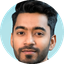
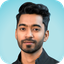
Paper, Stone, Coral and Black palette; status-pill process steps; separate hello photo
- Replace the rose accent with coral and the user's palette in both themes
- Process steps get muted status colours and small icons
- Hello pill uses the side-profile photo so it differs from the nav headshot
- Tab icon is a softly rounded square that shows more of the photo

Claude-Session: https://claude.ai/code/session_01RdWp2im6H8GFzkqyPQpJKF

diff --git a/raihanghorami/app/globals.css b/raihanghorami/app/globals.css
@@ -1,27 +1,31 @@
 /* ============ Tokens (light) ============ */
+/* Palette: Paper #F6F4F1, Stone #E4DED2, Coral #F95C4B, Black #000000 */
 :root {
-  --bg: #f4f3ef;
-  --surface: #ffffff;
-  --glass: rgba(255, 255, 255, 0.82);
-  --ink: #131313;
-  --ink-hover: #2a292f;
-  --ink-2: rgba(19, 19, 19, 0.68);
-  --ink-3: rgba(19, 19, 19, 0.6);
-  --line: rgba(19, 19, 19, 0.1);
-  --line-2: rgba(19, 19, 19, 0.16);
-  --hover: rgba(19, 19, 19, 0.05);
-  --grid: rgba(19, 19, 19, 0.055);
-  --underline: rgba(19, 19, 19, 0.3);
-  --elev: 0 0 0 1px rgba(19, 19, 19, 0.07), 0 12px 32px -12px rgba(19, 19, 19, 0.22);
+  --bg: #f6f4f1;
+  --surface: #fbfaf8;
+  --glass: rgba(251, 250, 248, 0.84);
+  --ink: #000000;
+  --ink-hover: #2b2a28;
+  --ink-2: rgba(0, 0, 0, 0.66);
+  --ink-3: rgba(0, 0, 0, 0.56);
+  --line: rgba(0, 0, 0, 0.1);
+  --line-2: rgba(0, 0, 0, 0.16);
+  --hover: rgba(0, 0, 0, 0.05);
+  --grid: rgba(0, 0, 0, 0.05);
+  --underline: rgba(0, 0, 0, 0.3);
+  --elev: 0 0 0 1px rgba(0, 0, 0, 0.07), 0 12px 32px -14px rgba(0, 0, 0, 0.2);
 
-  /* design-tool overlay colours */
-  --accent: #a83f6e;
-  --on-accent: #ffffff;
-  --sel: #ecd3dd;
+  /* design-tool overlay colours: coral is the only accent */
+  --accent: #f95c4b;
+  --on-accent: #000000;
+  --sel: #e4ded2;
   --handle: var(--accent);
   --handle-ring: var(--bg);
-  --focus: #6e56f0;
-  --band: #0c0b10;
+  --hl: var(--accent);
+  --on-hl: #000000;
+  --focus: var(--ink);
+  --band: #000000;
+  --band-ink: #f6f4f1;
 
   --serif: 'Instrument Serif', 'Iowan Old Style', 'Times New Roman', serif;
   --sans: 'Geist Variable', ui-sans-serif, system-ui, -apple-system, 'Segoe UI', sans-serif;
@@ -37,26 +41,22 @@
 
 /* ============ Tokens (dark) ============ */
 :root[data-theme='dark'] {
-  --bg: #141416;
-  --surface: #1c1c20;
-  --glass: rgba(30, 30, 34, 0.74);
-  --ink: #f2f1ec;
+  --bg: #000000;
+  --surface: #121110;
+  --glass: rgba(18, 17, 16, 0.78);
+  --ink: #f6f4f1;
   --ink-hover: #ffffff;
-  --ink-2: rgba(242, 241, 236, 0.7);
-  --ink-3: rgba(242, 241, 236, 0.52);
-  --line: rgba(255, 255, 255, 0.1);
-  --line-2: rgba(255, 255, 255, 0.16);
-  --hover: rgba(255, 255, 255, 0.07);
-  --grid: rgba(255, 255, 255, 0.045);
-  --underline: rgba(242, 241, 236, 0.35);
-  --elev: 0 0 0 1px rgba(255, 255, 255, 0.09), 0 14px 36px -14px rgba(0, 0, 0, 0.7);
+  --ink-2: rgba(246, 244, 241, 0.7);
+  --ink-3: rgba(246, 244, 241, 0.54);
+  --line: rgba(246, 244, 241, 0.12);
+  --line-2: rgba(246, 244, 241, 0.18);
+  --hover: rgba(246, 244, 241, 0.07);
+  --grid: rgba(246, 244, 241, 0.05);
+  --underline: rgba(246, 244, 241, 0.35);
+  --elev: 0 0 0 1px rgba(246, 244, 241, 0.1), 0 14px 36px -14px rgba(0, 0, 0, 0.8);
 
-  --accent: #b8457b;
-  --on-accent: #ffffff;
-  --sel: #b8457b;
-  --handle: #ffffff;
-  --handle-ring: #b8457b;
-  --focus: #a99bff;
+  --sel: #2b2723;
+  --band: #0f0e0d;
 
   color-scheme: dark;
 }
@@ -133,8 +133,8 @@ button {
 }
 
 ::selection {
-  background: var(--sel);
-  color: #131313;
+  background: var(--accent);
+  color: #000000;
 }
 
 :focus-visible {
@@ -194,7 +194,8 @@ button {
 .hl {
   padding: 0 0.08em;
   border-radius: 6px;
-  background: var(--sel);
+  background: var(--hl);
+  color: var(--on-hl);
 }
 
 .link-u {
@@ -451,6 +452,7 @@ button {
   height: 30px;
   border-radius: 50%;
   object-fit: cover;
+  box-shadow: 0 0 0 1px var(--line);
 }
 
 .hero-line {
@@ -736,7 +738,7 @@ button {
   margin-inline: clamp(8px, 1.4vw, 20px);
   border-radius: 36px;
   background: var(--band);
-  color: #f2ede4;
+  color: var(--band-ink);
   box-shadow: 0 0 0 1px var(--line);
 }
 
@@ -756,7 +758,7 @@ button {
 }
 
 .process .kicker {
-  color: rgba(242, 237, 228, 0.6);
+  color: rgba(246, 244, 241, 0.6);
 }
 
 .process .h2 {
@@ -782,52 +784,58 @@ button {
 
 .step p {
   margin-top: 18px;
-  color: rgba(242, 237, 228, 0.72);
+  color: rgba(246, 244, 241, 0.72);
   font-size: 15px;
   max-width: 22ch;
 }
 
 .step-pill {
+  --c: 246, 244, 241;
   display: inline-flex;
   align-items: center;
   gap: 10px;
   height: 44px;
-  padding: 0 18px 0 7px;
+  padding: 0 18px 0 8px;
   border-radius: 999px;
   font-size: 15.5px;
   font-weight: 500;
   white-space: nowrap;
-  background: var(--band);
-  box-shadow: inset 0 0 0 1px rgba(255, 255, 255, 0.16);
-  animation: step-on 6s var(--ease) infinite;
+  color: rgb(var(--c));
+  background: linear-gradient(180deg, rgba(var(--c), 0.16), rgba(var(--c), 0.04)), var(--band);
+  box-shadow:
+    inset 0 0 0 1px rgba(var(--c), 0.5),
+    inset 0 1px 0 rgba(255, 255, 255, 0.08),
+    0 0 18px rgba(var(--c), 0.12);
+  animation: step-on 7s ease-in-out infinite;
   animation-delay: var(--d, 0s);
 }
 
 .step-pill .ico {
   display: grid;
   place-items: center;
-  width: 30px;
-  height: 30px;
+  width: 28px;
+  height: 28px;
   border-radius: 50%;
-  background: rgba(255, 255, 255, 0.1);
-  font-family: var(--mono);
-  font-size: 11.5px;
-  font-weight: 600;
-  transition: background-color 0.4s;
+  background: rgb(var(--c));
+  color: var(--band);
 }
 
-/* each step lights up in turn, like a playhead passing over it */
+/* each step glows a little brighter in turn, like a playhead passing over it */
 @keyframes step-on {
   0%,
-  22%,
+  24%,
   100% {
-    box-shadow: inset 0 0 0 1px rgba(255, 255, 255, 0.16);
+    box-shadow:
+      inset 0 0 0 1px rgba(var(--c), 0.5),
+      inset 0 1px 0 rgba(255, 255, 255, 0.08),
+      0 0 18px rgba(var(--c), 0.12);
   }
-  6%,
+  8%,
   16% {
     box-shadow:
-      inset 0 0 0 1px rgba(255, 255, 255, 0.55),
-      0 0 24px rgba(255, 255, 255, 0.08);
+      inset 0 0 0 1px rgba(var(--c), 0.85),
+      inset 0 1px 0 rgba(255, 255, 255, 0.14),
+      0 0 28px rgba(var(--c), 0.3);
   }
 }
 

diff --git a/raihanghorami/components/StepIcon.tsx b/raihanghorami/components/StepIcon.tsx
@@ -1,0 +1,43 @@
+/** Small status icons for the process pills (to-do, in progress, frame review, in review, done). */
+export function StepIcon({ name }: { name: 'brief' | 'editing' | 'qc' | 'review' | 'delivered' }) {
+  const p = { width: 14, height: 14, viewBox: '0 0 16 16', fill: 'none', 'aria-hidden': true } as const;
+  const s = { stroke: 'currentColor', strokeWidth: 1.8, strokeLinecap: 'round', strokeLinejoin: 'round' } as const;
+  switch (name) {
+    case 'brief':
+      return (
+        <svg {...p}>
+          <path d="M8 3.5v9M3.5 8h9" {...s} />
+        </svg>
+      );
+    case 'editing':
+      return (
+        <svg {...p}>
+          <circle cx="8" cy="8" r="5.2" {...s} strokeWidth={1.6} />
+          <path d="M8 2.8a5.2 5.2 0 0 1 0 10.4z" fill="currentColor" />
+        </svg>
+      );
+    case 'qc':
+      return (
+        <svg {...p}>
+          <rect x="4" y="4" width="8" height="8" {...s} strokeWidth={1.4} />
+          <rect x="2.2" y="2.2" width="3.4" height="3.4" rx="0.8" fill="currentColor" />
+          <rect x="10.4" y="2.2" width="3.4" height="3.4" rx="0.8" fill="currentColor" />
+          <rect x="2.2" y="10.4" width="3.4" height="3.4" rx="0.8" fill="currentColor" />
+          <rect x="10.4" y="10.4" width="3.4" height="3.4" rx="0.8" fill="currentColor" />
+        </svg>
+      );
+    case 'review':
+      return (
+        <svg {...p}>
+          <rect x="3.5" y="3" width="9" height="11" rx="1.6" {...s} strokeWidth={1.6} />
+          <path d="M6 2.2h4M6 7.5h4M6 10.5h2.6" {...s} strokeWidth={1.6} />
+        </svg>
+      );
+    case 'delivered':
+      return (
+        <svg {...p}>
+          <path d="M4 8.4l2.6 2.6L12 5.4" {...s} strokeWidth={2} />
+        </svg>
+      );
+  }
+}

diff --git a/raihanghorami/app/page.tsx b/raihanghorami/app/page.tsx
@@ -2,8 +2,9 @@ import { Cursor } from '@/components/Cursor';
 import { FounderBadge } from '@/components/FounderBadge';
 import { ArrowRight, ArrowUpRight } from '@/components/Icons';
 import { PhotoStack } from '@/components/PhotoStack';
+import { StepIcon } from '@/components/StepIcon';
 import { delay } from '@/components/delay';
-import { avatar, shots } from '@/content/media';
+import { profile, shots } from '@/content/media';
 import { posts } from '@/content/posts';
 import { about, hero, process, results, site, stats } from '@/content/site';
 
@@ -17,7 +18,7 @@ export default function HomePage() {
         <div className="wrap">
           <p className="hello" data-reveal>
             {/* eslint-disable-next-line @next/next/no-img-element */}
-            <img src={avatar} alt="" width={30} height={30} />
+            <img src={profile} alt="" width={30} height={30} />
             Hi, I’m Raihan Ghorami
           </p>
 
@@ -98,9 +99,9 @@ export default function HomePage() {
           <ol className="steps">
             {process.map((s, i) => (
               <li className="step" key={s.label} data-reveal style={delay(i * 90)}>
-                <span className="step-pill" style={{ ['--d' as string]: `${i * 1.2}s` }}>
-                  <span className="ico" aria-hidden="true">
-                    {String(i + 1).padStart(2, '0')}
+                <span className="step-pill" style={{ ['--c' as string]: s.c, ['--d' as string]: `${i * 1.2}s` }}>
+                  <span className="ico">
+                    <StepIcon name={s.icon} />
                   </span>
                   {s.label}
                 </span>

diff --git a/raihanghorami/content/site.ts b/raihanghorami/content/site.ts
@@ -46,13 +46,14 @@ export const results = [
   { name: 'Ray White agents', note: 'Listing videos' },
 ];
 
+/** `c` is the pill's status colour (r, g, b), kept muted on purpose. */
 export const process = [
-  { label: 'Brief', text: 'Footage and a reference. That’s enough to start.' },
-  { label: 'Editing', text: 'One editor owns your video, start to finish.' },
-  { label: 'QC', text: 'Every cut gets checked before you see it.' },
-  { label: 'Your review', text: 'Timestamped notes. Fixes come back fast.' },
-  { label: 'Delivered', text: 'Every version you need. Files kept a year.' },
-];
+  { label: 'Brief', icon: 'brief', c: '176, 172, 246', text: 'Footage and a reference. That’s enough to start.' },
+  { label: 'Editing', icon: 'editing', c: '112, 214, 206', text: 'One editor owns your video, start to finish.' },
+  { label: 'QC', icon: 'qc', c: '192, 168, 244', text: 'Every cut gets checked before you see it.' },
+  { label: 'Your review', icon: 'review', c: '232, 200, 104', text: 'Timestamped notes. Fixes come back fast.' },
+  { label: 'Delivered', icon: 'delivered', c: '116, 208, 144', text: 'Every version you need. Files kept a year.' },
+] as const;
 
 export const about = {
   title: 'Hi, I’m Raihan.',

diff --git a/raihanghorami/content/media.ts b/raihanghorami/content/media.ts
@@ -1,7 +1,10 @@
 import type { Shot } from '@/components/PhotoStack';
 
-/** Round avatar (nav + hello pill): headshot in the black jacket on blue. The tab icons are cut from the same photo. */
+/** Nav avatar: headshot in the black jacket on blue. The tab icons are cut from the same photo. */
 export const avatar = '/images/raihan/raihan-headshot.webp';
+
+/** Hello pill: his lit side profile against the monitor, so it differs from the nav photo. */
+export const profile = '/images/raihan/raihan-profile.webp';
 
 /** Photo "takes" in About, front first. From Raihan's Photos (used on the original site). */
 export const shots: Shot[] = [
